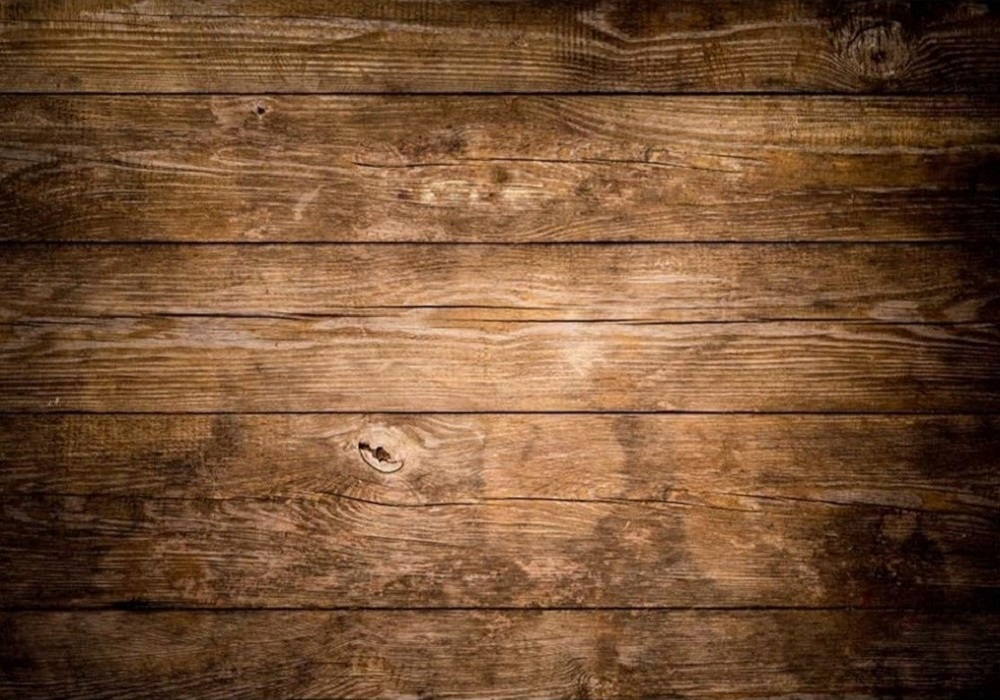
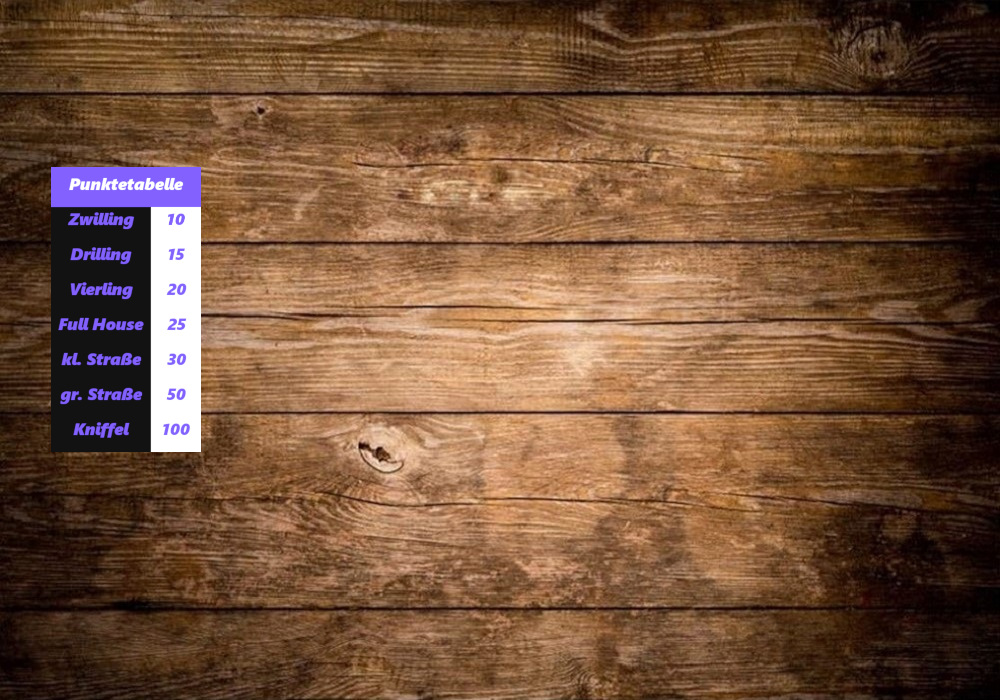
Kniffel final mit PauseTransition + andere Farbe der Wuerfel vom Computer + Full House

Changed region(s): [[0.031, 0.24, 0.217, 0.66]]

diff --git a/src/main/java/com/example/minimarioparty/Kniffel/KniffelMinispiel.java b/src/main/java/com/example/minimarioparty/Kniffel/KniffelMinispiel.java
@@ -78,7 +78,7 @@ public class KniffelMinispiel extends Minispiel {
         }
 
 
-        spielanleitungText = "Ziel des Spiels ist es, als erstes drei Runden zu gewinnen. \nEine Runde gilt als gewonnen, sobald 100 oder mehr Punkte erzielt wurden. \nDer Spieler kann bis zum zweiten Wuerfeln die Punkte manuell zaehlen. \nPro Zug kann bis zu drei Mal gewuerfelt werden, dann werden die Punkte des letzten Wuerfelns automatisch gezaehlt.\nEs wird abwechselnd gewuerfelt - der Spieler beginnt.\nDer Spieler hat weiße Wuerfel und der Computer rote Wuerfel.";
+        spielanleitungText = "Ziel des Spiels ist es, als erstes drei Runden zu gewinnen. \nEine Runde gilt als gewonnen, sobald 100 oder mehr Punkte erzielt wurden. \nDer Spieler kann bis zum zweiten Wuerfeln die Punkte manuell zaehlen. \nPro Zug kann bis zu drei Mal gewuerfelt werden, dann werden die Punkte des letzten Wuerfelns automatisch gezaehlt.\nEs gibt folgende Möglichkeiten: Zwilling (zwei Gleiche), Drilling, (drei Gleiche), Vierling (vier Gleiche), Full House (zwei Gleiche und drei Gleiche), kleine Strasse (vier Zahlen in Folge), grosse Strasse (fuenf Zahlen in Folge) und Kniffel (fuenf Gleiche).\nEs wird abwechselnd gewuerfelt - der Spieler beginnt.\nDer Spieler hat weiße Wuerfel und der Computer rote Wuerfel.";
         MinispielTitleLabel.setText("Kniffel");
 
 
@@ -92,7 +92,7 @@ public class KniffelMinispiel extends Minispiel {
 
         // Hintergrund
 
-        Image spielfeldHintergrund = new Image("kniffelHintergrund_test2.jpg");
+        Image spielfeldHintergrund = new Image("kniffelHintergrund.jpg");
         ImageView spielfeld = new ImageView();
         spielfeld.setFitWidth(1000);
         spielfeld.setFitHeight(700);
@@ -354,13 +354,15 @@ public class KniffelMinispiel extends Minispiel {
         amZugLabel.setTextFill(Color.WHITE);
         amZugLabel.setText("Spieler ist am Zug");
 
-        if (wuerfelCounter > 3) {
+        /*if (wuerfelCounter > 3) {
             wuerfelCounter = 0;
             System.out.println("funktioniert");
             if (rundenCounter > 3) {
-                return;
-            }
-        } else if (wuerfelCounter == 3) {
+                return;*/
+
+        if (wuerfelCounter == 3) {
+            wuerfeln.setVisible(false);
+            beenden.setVisible(false);
             autoZaehlen();
             zahlen.clear();
             spielerZugBeendet();
@@ -653,7 +655,7 @@ public class KniffelMinispiel extends Minispiel {
         if (grStrasse) {
             punkte += 50;
         } else if (klStrasse) {
-            punkte += 25;
+            punkte += 30;
         } else {
 
             boolean zwilling = false;
@@ -677,7 +679,7 @@ public class KniffelMinispiel extends Minispiel {
             if (fuenfGleiche) {
                 punkte += 100;
             } else if (zwilling && drilling) {
-                punkte += 15;
+                punkte += 25;
             } else if (vierling) {
                 punkte += 20;
             } else if (drilling) {
